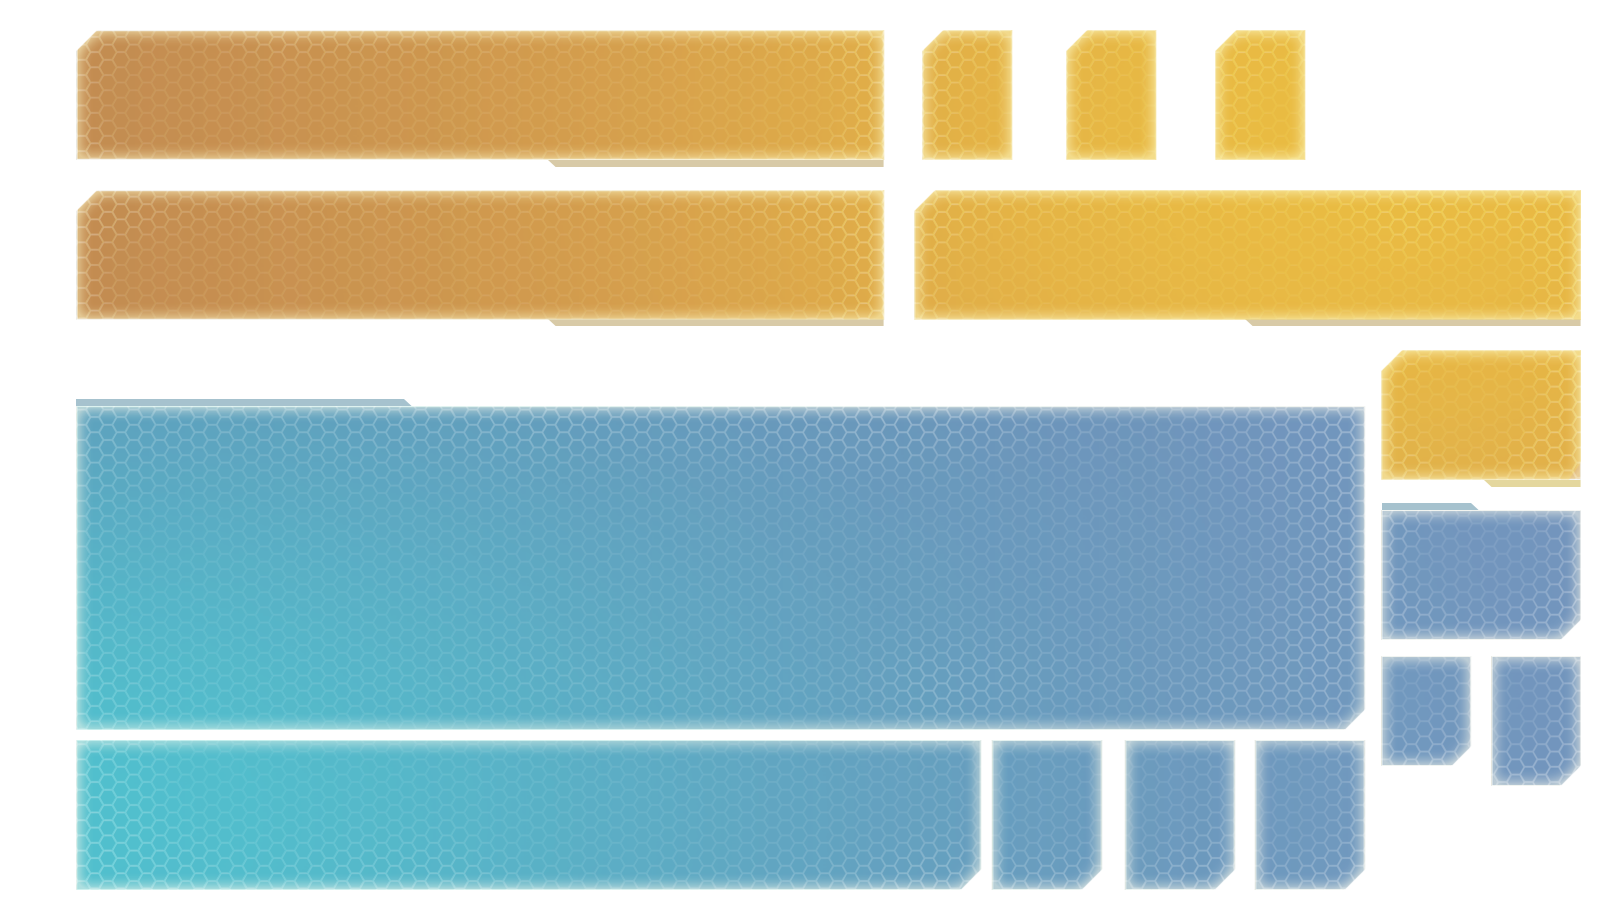
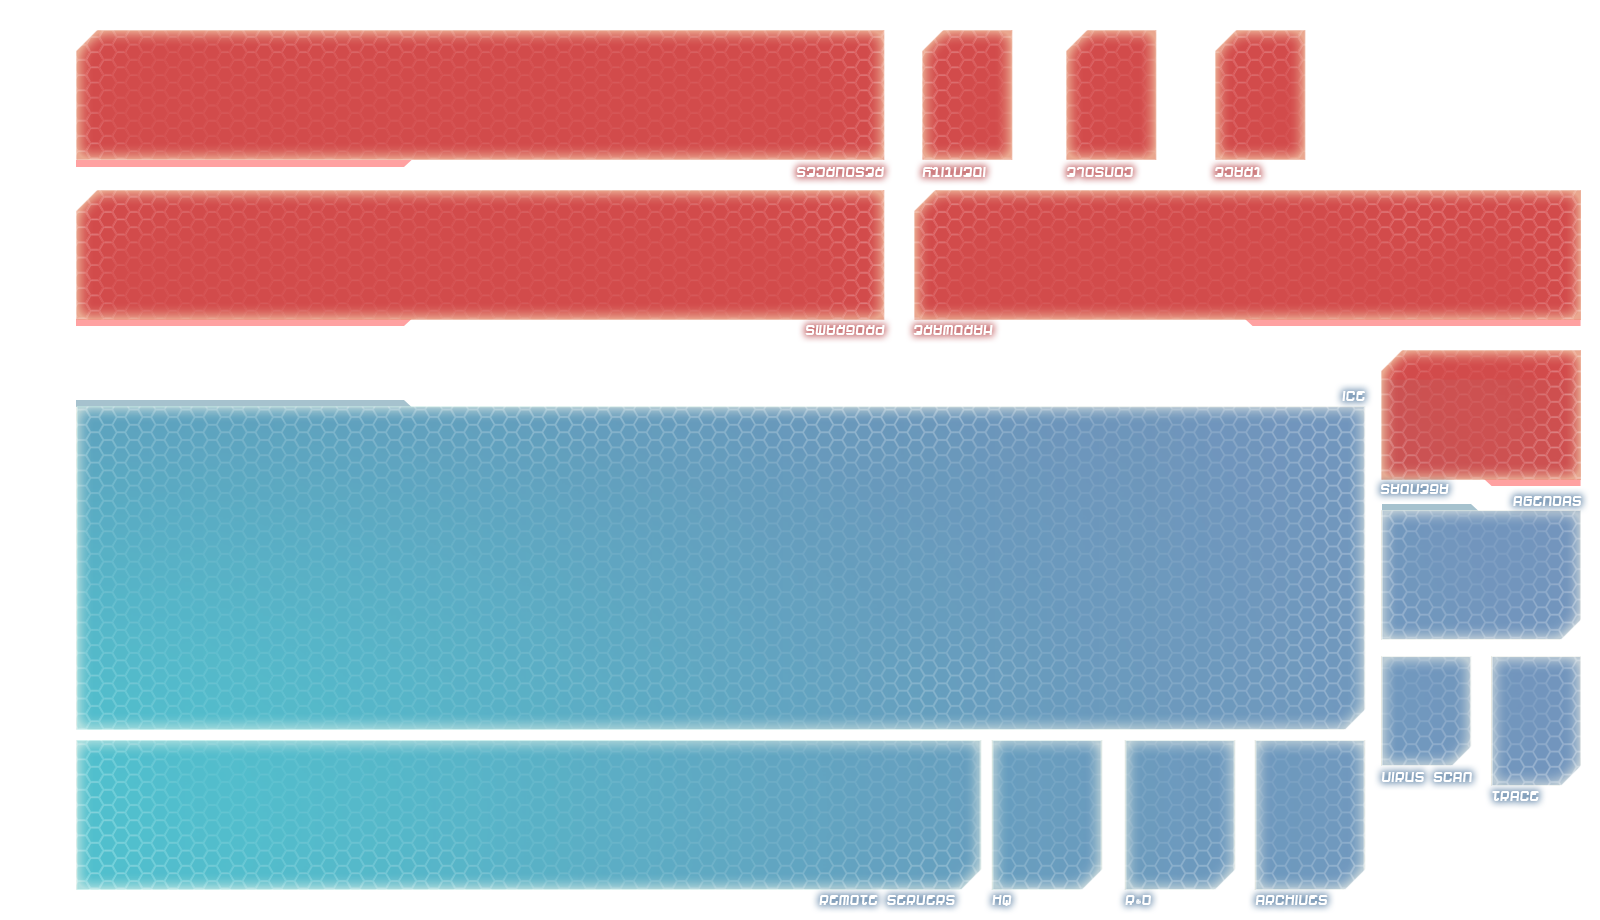
Changed tabletop to red/blue
Moved icons to the right, to give the chat window space
Removed moving cards after creating them since it's not needed anymore
new NBN house also works on Mulligan (Fixes #233)

diff --git a/o8g/Scripts/actions.py b/o8g/Scripts/actions.py
@@ -200,46 +200,35 @@ def createStartingCards():
          storeSpecial(traceCard)
          if debugVerbosity >= 5: information("Creating HQ")
          HQ = table.create("81cba950-9703-424f-9a6f-af02e0203762", 169, 188, 1, True)
-         HQ.moveToTable(169, 188) # MoveToTable is accurate. Table.create isn't.
          storeSpecial(HQ) # We pass control of the centrals to the runner, so that they can double click them to start runs
          HQ.setController(findOpponent())
          if debugVerbosity >= 5: information("Creating R&D")
          RD = table.create("fbb865c9-fccc-4372-9618-ae83a47101a2", 277, 188, 1, True)
-         RD.moveToTable(277, 188)
          storeSpecial(RD)
          RD.setController(findOpponent())
          if debugVerbosity >= 5: information("Creating Archives")
          ARC = table.create("47597fa5-cc0c-4451-943b-9a14417c2007", 382, 188, 1, True)
-         ARC.moveToTable(382, 188)
          storeSpecial(ARC)
          ARC.setController(findOpponent())
          if debugVerbosity >= 5: information("Creating Virus Scan")
          AV = table.create("23473bd3-f7a5-40be-8c66-7d35796b6031", 478, 165, 1, True) # The Virus Scan card.
-         AV.moveToTable(478, 165)
          storeSpecial(AV)
          try:
-            BTN = table.create("fb146e53-714b-4b29-861a-d58ca9840c00", -655, 150, 1, True) # The No Rez Button
-            BTN.moveToTable(-655, 150)
-            BTN = table.create("e904542b-83db-4022-9e8e-9369fe7bc761", -655, 220, 1, True) # The OK Button
-            BTN.moveToTable(-655, 220)
-            BTN = table.create("0887f64f-4fe8-4a5b-9d41-77408fe0224b", -655, 290, 1, True) # The Wait Button
-            BTN.moveToTable(-655, 290)
+            BTN = table.create("fb146e53-714b-4b29-861a-d58ca9840c00", 638, 25, 1, True) # The No Rez Button
+            BTN = table.create("e904542b-83db-4022-9e8e-9369fe7bc761", 638, 95, 1, True) # The OK Button
+            BTN = table.create("0887f64f-4fe8-4a5b-9d41-77408fe0224b", 638, 165, 1, True) # The Wait Button
          except: delayed_whisper("!!!ERROR!!! In createStartingCards()\n!!! Please Install Markers Set v2.2.1+ !!!")
       else:
          if debugVerbosity >= 5: information("Creating Trace Card")
          traceCard = table.create("eb7e719e-007b-4fab-973c-3fe228c6ce20", 342, -331, 1, True) #The Trace card
-         traceCard.moveToTable(342, -331) # Otherwise it's bugging out
          storeSpecial(traceCard)
          #TC = table.create("71a89203-94cd-42cd-b9a8-15377caf4437", 471, -325, 1, True) # The Technical Difficulties card.
          #TC.moveToTable(471, -325) # It's never creating them in the right place. Move is accurate.
          #storeSpecial(TC)
          try:
-            BTN = table.create("33ac6951-93ec-4034-9578-0d7dcc77c3f8", -655, -230, 1, True) # The Access Imminent Button
-            BTN.moveToTable(-655, -230)
-            BTN = table.create("e904542b-83db-4022-9e8e-9369fe7bc761", -655, -300, 1, True) # The OK Button
-            BTN.moveToTable(-655, -300)
-            BTN = table.create("0887f64f-4fe8-4a5b-9d41-77408fe0224b", -655, -370, 1, True) # The Wait Button
-            BTN.moveToTable(-655, -370)
+            BTN = table.create("33ac6951-93ec-4034-9578-0d7dcc77c3f8", 638, -80, 1, True) # The Access Imminent Button
+            BTN = table.create("e904542b-83db-4022-9e8e-9369fe7bc761", 638, -150, 1, True) # The OK Button
+            BTN = table.create("0887f64f-4fe8-4a5b-9d41-77408fe0224b", 638, -220, 1, True) # The Wait Button
          except: delayed_whisper("!!!ERROR!!! In createStartingCards()\n!!! Please Install Markers Set v2.2.1+ !!!")
    except: notify("!!!ERROR!!! {} - In createStartingCards()\n!!! PLEASE INSTALL MARKERS SET FILE !!!".format(me))
 

diff --git a/o8g/Scripts/CardScripts.py b/o8g/Scripts/CardScripts.py
@@ -1857,7 +1857,7 @@ NBN: The World is Yours
 -----
 bc0f047c-01b1-427f-a439-d451eda02114
 -----
-onStartup:Gain1Hand Size-isSilent
+onStartup:Gain1Hand Size-isSilent||onMulligan:Gain1Hand Size-isSilent
 +++++
 
 .....
